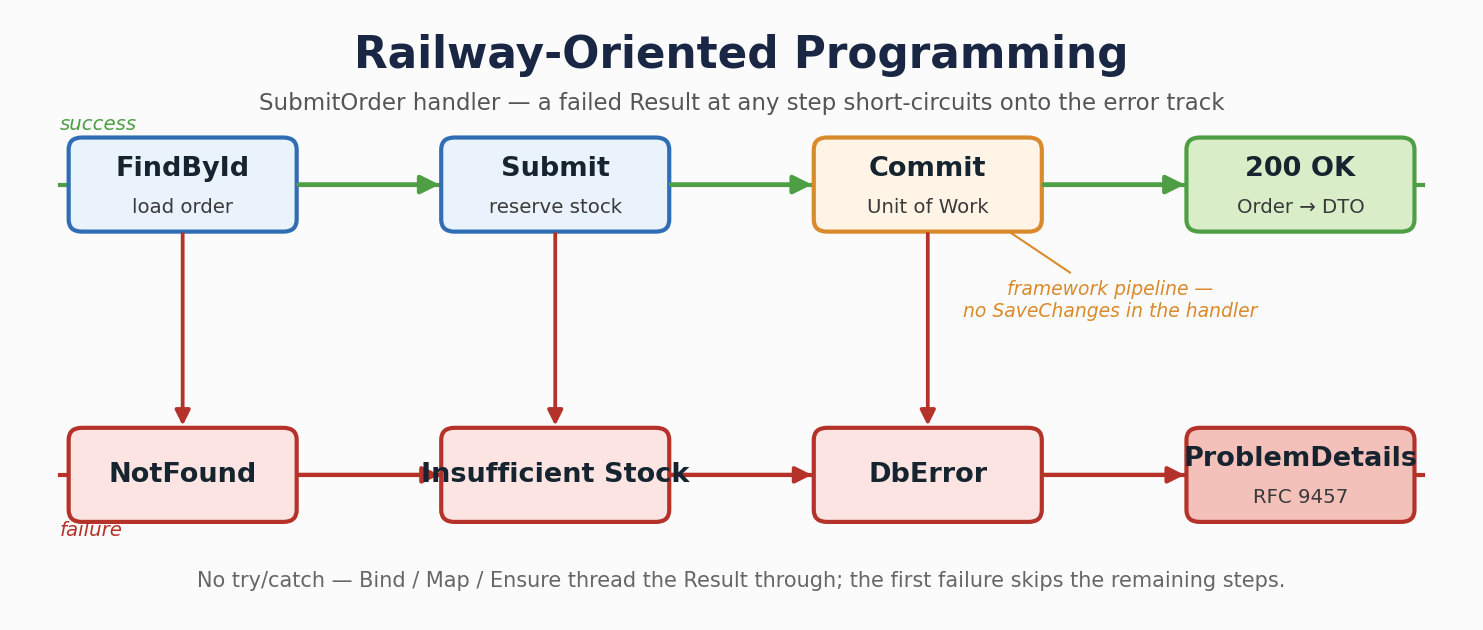
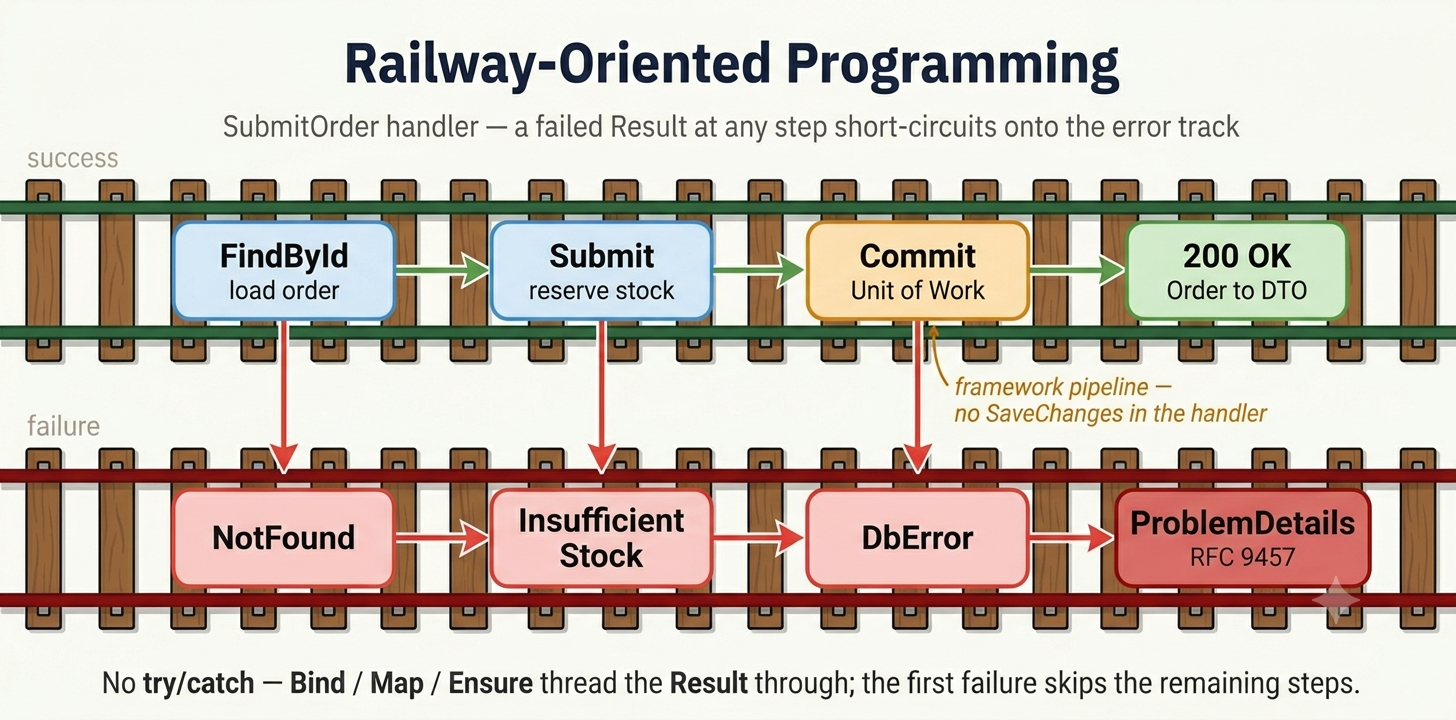
docs: use authored rop-pipeline infographic; drop matplotlib generator
Replace the matplotlib-rendered rop-pipeline.png with a hand/AI-authored infographic (fixes the text-overflow on the 'Insufficient Stock' and 'ProblemDetails' nodes). Remove docs/images/gen_rop_pipeline.py since the image is no longer script-generated, and update docs/images/README.md item #9 to note it is authored directly. Content is unchanged: FindById -> Submit -> Commit (UoW) -> 200 OK with failures short-circuiting to ProblemDetails.

diff --git a/docs/images/README.md b/docs/images/README.md
@@ -102,7 +102,7 @@ NotFound  Insufficient  DbError  ─────→ ProblemDetails (RFC 9457)
 ```
 Each step returns a `Result`; the first failure short-circuits onto the failure track and the remaining steps are skipped. The commit is a **framework pipeline stage** (`AddTrellisUnitOfWork<AppDbContext>` in `Acl/src/DependencyInjection.cs`) — handlers never call `SaveChanges`. Show how errors propagate without try/catch.
 
-Regenerate with [`gen_rop_pipeline.py`](gen_rop_pipeline.py) (`python docs/images/gen_rop_pipeline.py`).
+Authored as a standalone infographic (not script-generated) — update the PNG directly if the handler shape changes.
 
 ---
 
